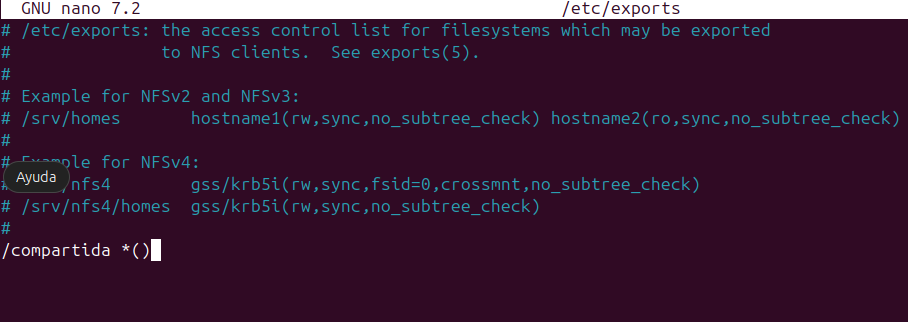
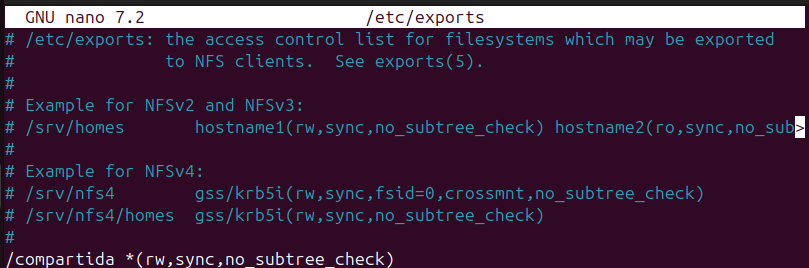
sprin3

diff --git a/site/sprint3/index.html b/site/sprint3/index.html
@@ -72,13 +72,21 @@
         <ul>
     <li class="toctree-l4"><a class="reference internal" href="#teoria">Teoria:</a>
     </li>
+    <li class="toctree-l4"><a class="reference internal" href="#installacio-i-configuracio">Instal·lació I Configuració</a>
+    </li>
         </ul>
     </li>
     <li class="toctree-l3"><a class="reference internal" href="#servidor-nfs">Servidor NFS</a>
         <ul>
-    <li class="toctree-l4"><a class="reference internal" href="#perfils-mobils">Perfils mòbils</a>
+    <li class="toctree-l4"><a class="reference internal" href="#installacio-i-configuracio_1">Instal·lació I Configuració</a>
     </li>
         </ul>
+    </li>
+        </ul>
+    </li>
+    <li class="toctree-l2"><a class="reference internal" href="#configuracio-de-etcexports">Configuració de /etc/exports</a>
+        <ul>
+    <li class="toctree-l3"><a class="reference internal" href="#perfils-mobils">Perfils mòbils</a>
     </li>
         </ul>
     </li>
@@ -193,40 +201,87 @@ Tot servidor té per a tindre la IP fitxa aniria bé configura netplan però par
 Permet la compartició de recursos que no són només carpetes, sinó també impressores.
 Samba pot treballar conjuntament amb LDAP per utilitzar autenticació a nivell d'usuaris.
 Samba permet la connexió de clients tant de Linux com de Windows.</p>
+<h4 id="installacio-i-configuracio">Instal·lació I Configuració</h4>
 <p><img alt="Error" src="../installsmb.png" /></p>
-<p><img alt="Error" src="../grepperfils.png" /></p>
-<p><img alt="Error" src="../configperfis.png" /></p>
-<p><img alt="Error" src="../creauser.png" /></p>
-<p><img alt="Error" src="../comptail.png" /></p>
-<p><img alt="Error" src="../addgrupdam.png" /></p>
-<p><img alt="Error" src="../smbcontra.png" /></p>
-<p>Client:</p>
-<p><img alt="Error" src="../installsmbclient.png" /></p>
-<p><img alt="Error" src="../consmb.png" /></p>
-<p>Raul crea</p>
+<p>Crearem la carpeta de perfils a l'arrel i li donarem els permisos corresponents
+<img alt="Error" src="../grepperfils.png" /></p>
+<p>Anirem al fitxe /etc/samba i configurarem la carpeta compartida
+<img alt="Error" src="../configperfis.png" /></p>
+<p>Crea els usuaris raul, enric i walid sense directori personal i sense accés a la línia d'ordres
+<img alt="Error" src="../creauser.png" /></p>
+<p>Verifica que els usuaris s'han creat correctament
+<img alt="Error" src="../comptail.png" /></p>
+<p>Crem el grup dam i afegim els usuaris raul, walid i enric
+<img alt="Error" src="../addgrupdam.png" /></p>
+<p>Posarem contrasenyes del samba a els usuaris raul, walid i enric
+<img alt="Error" src="../smbcontra.png" /></p>
+<p>Client:
+Una vegada al client instal·larem smbclient
+<img alt="Error" src="../installsmbclient.png" /></p>
+<p>Ens connectarem amb el mode anònim i els diferents usuaris
+<img alt="Error" src="../consmb.png" /></p>
+<p>Raul a pogut crea i edita fitches</p>
 <p><img alt="Error" src="../compraul.png" /></p>
-<p>Enric no crea</p>
-<p><img alt="pendent" src="./enricno.png" /></p>
+<p>Enric no ja que no tenia el permisos corresponents</p>
+<p><img alt="pendent" src="../enricno.png" /></p>
 <h3 id="servidor-nfs">Servidor NFS</h3>
-<p><img alt="Error" src="../instanfs.png" /></p>
+<h4 id="installacio-i-configuracio_1">Instal·lació I Configuració</h4>
+<p>Instal·larem el paquet nfs-kernel-server
+<img alt="Error" src="../instanfs.png" /></p>
+<h2 id="configuracio-de-etcexports">Configuració de /etc/exports</h2>
+<p>Afigirem una línia de configuració al fitxer <code>/etc/exports</code>:</p>
+<ul>
+<li><strong>/compartida</strong>: Directori compartit.  </li>
+<li><strong>*</strong>: Accés per a qualsevol client de xarxa.  </li>
+<li><strong>rw</strong>: Permet lectura i escriptura.  </li>
+<li><strong>sync</strong>: Sincronitza els canvis a disc immediatament.  </li>
+<li><strong>no_subtree_check</strong>: Millora el rendiment desactivant comprovacions de subdirectoris.  </li>
+</ul>
 <p><img alt="Error" src="../nanoexports.png" /></p>
-<p><img alt="Error" src="../restartnfs.png" /></p>
-<p>Client Windous</p>
-<p><img alt="Error" src="../clientwind.png" /></p>
+<p>Reiniciem el servei NFS per aplicar els canvis.
+<img alt="Error" src="../restartnfs.png" /></p>
+<p>Client Windous<br />
+El recurs \10.0.2.4\compartida funciona des del client Windows
+<img alt="Error" src="../clientwind.png" /></p>
 <p><img alt="Error" src="../clientwind2.png" /></p>
 <p>Client Ubuntu<br />
+Al client ubuntu necessitarem insta-la el paquet nfs-common i rpcbind
 <img alt="Error" src="../clientubu1.png" /></p>
 <p><img alt="Error" src="./clientubu2.png" /></p>
 <h4 id="perfils-mobils">Perfils mòbils</h4>
-<p><img alt="Error" src="../instalnfsserver.png" /></p>
+<p>Instal·larem el paquet nfs-kernel-server
+<img alt="Error" src="../instalnfsserver.png" /></p>
+<p>Afegirem la configuracio de perfils
+- <strong>rw</strong>: Accés de lectura i escriptura.<br />
+- <strong>sync</strong>: Escriu els canvis immediatament al disc.<br />
+- <strong>no_root_squash</strong>: Permet que el client NFS accedeixi com a root al servidor (<strong>compte amb la seguretat!</strong>).<br />
+- <strong>no_subtree_check</strong>: Millora el rendiment desactivant comprovacions de subdirectoris.  </p>
 <p><img alt="Error" src="../etcnanoexport.png" /></p>
-<p><img alt="Error" src="../grupldif.png" /></p>
-<p><img alt="Error" src="../usuldif.png" /></p>
-<p><img alt="Error" src="../aplicaldif.png" /></p>
-<p>Client:</p>
-<p><img alt="Error" src="../instalclinfs.png" /></p>
+<p>Configuracio del grup
+<img alt="Error" src="../grupldif.png" /></p>
+<p>Configuracio del usuari
+<img alt="Error" src="../usuldif.png" /></p>
+<p>Afegirem els fitxes usu i grup a LDAP:
+<img alt="Error" src="../aplicaldif.png" /></p>
+<p>Client:
+Al client instal·larem nfs-common i rpcbind
+<img alt="Error" src="../instalclinfs.png" /></p>
+<p>Muntarem un recurs el qual:<br />
+- <strong>10.0.2.4:/perfils</strong>: Indica el servidor NFS (IP) i el directori compartit.<br />
+- <strong>/perfils</strong>: Punt de muntatge local on es veurà el recurs compartit.<br />
+- <strong>nfs</strong>: Tipus de sistema de fitxers (NFS).<br />
+- <strong>auto</strong>: Es munta automàticament en arrencar el sistema.<br />
+- <strong>noatime</strong>: No actualitza la data d'accés als fitxers (millora el rendiment).<br />
+- <strong>nolock</strong>: Desactiva el bloqueig de fitxers NFS (útil per compatibilitat).<br />
+- <strong>bg</strong>: Si el muntatge falla, ho intenta en segon pla (no bloqueja l'arrencada).<br />
+- <strong>nfsvers=3</strong>: Utilitza la versió 3 de NFS.<br />
+- <strong>intr</strong>: Permet interrompre operacions NFS si el servidor no respon.<br />
+- <strong>tcp</strong>: Utilitza el protocol TCP per a la comunicació (més fiable que UDP).<br />
+- <strong>actimeo=1800</strong>: Cacheja els atributs de fitxers durant 1800 segons (30 minuts) per millorar el rendiment.<br />
+- <strong>0 0</strong>: No es fa còpia de seguretat amb dump i no es comprova el sistema de fitxers amb fsck.  </p>
 <p><img alt="Error" src="../etcfstabnano.png" /></p>
-<p><img alt="Error" src="../comprovacioalu54.png" /></p>
+<p>Comprovacio amb client ubuntu
+<img alt="Error" src="../comprovacioalu54.png" /></p>
               
             </div>
           </div><footer>

diff --git a/site/index.html b/site/index.html
@@ -138,5 +138,5 @@
 
 <!--
 MkDocs version : 1.6.1
-Build Date UTC : 2025-02-22 12:17:52.151571+00:00
+Build Date UTC : 2025-02-27 11:36:10.530413+00:00
 -->

diff --git a/docs/sprint3.md b/docs/sprint3.md
@@ -124,77 +124,118 @@ Permet la compartició de recursos que no són només carpetes, sinó també imp
 Samba pot treballar conjuntament amb LDAP per utilitzar autenticació a nivell d'usuaris.
 Samba permet la connexió de clients tant de Linux com de Windows.
 
-
+#### Instal·lació I Configuració 
 ![Error](./installsmb.png)
 
+Crearem la carpeta de perfils a l'arrel i li donarem els permisos corresponents
 ![Error](./grepperfils.png)
 
+Anirem al fitxe /etc/samba i configurarem la carpeta compartida
 ![Error](./configperfis.png)
 
+Crea els usuaris raul, enric i walid sense directori personal i sense accés a la línia d'ordres
 ![Error](./creauser.png)
 
+Verifica que els usuaris s'han creat correctament
 ![Error](./comptail.png)
 
+Crem el grup dam i afegim els usuaris raul, walid i enric
 ![Error](./addgrupdam.png)
 
+Posarem contrasenyes del samba a els usuaris raul, walid i enric
 ![Error](./smbcontra.png)
 
 Client:
-
+Una vegada al client instal·larem smbclient
 ![Error](./installsmbclient.png)
 
+Ens connectarem amb el mode anònim i els diferents usuaris
 ![Error](./consmb.png)
 
-Raul crea
+Raul a pogut crea i edita fitches
 
 ![Error](./compraul.png)
 
-Enric no crea
+Enric no ja que no tenia el permisos corresponents
 
 ![pendent](./enricno.png)
 
 ###Servidor NFS
+#### Instal·lació I Configuració 
 
-
+Instal·larem el paquet nfs-kernel-server
 ![Error](./instanfs.png)
+
+## Configuració de /etc/exports
+
+Afigirem una línia de configuració al fitxer `/etc/exports`:
+
+- **/compartida**: Directori compartit.  
+- **\***: Accés per a qualsevol client de xarxa.  
+- **rw**: Permet lectura i escriptura.  
+- **sync**: Sincronitza els canvis a disc immediatament.  
+- **no_subtree_check**: Millora el rendiment desactivant comprovacions de subdirectoris.  
 
 ![Error](./nanoexports.png)
 
+Reiniciem el servei NFS per aplicar els canvis.
 ![Error](./restartnfs.png)
 
-Client Windous
-
+Client Windous  
+El recurs \10.0.2.4\compartida funciona des del client Windows
 ![Error](./clientwind.png)
 
 ![Error](./clientwind2.png)
 
 Client Ubuntu  
+Al client ubuntu necessitarem insta-la el paquet nfs-common i rpcbind
 ![Error](./clientubu1.png)
 
 ![Error](./clientubu2.png)
 
 ####Perfils mòbils
-
+Instal·larem el paquet nfs-kernel-server
 ![Error](./instalnfsserver.png)
+
+
+Afegirem la configuracio de perfils
+- **rw**: Accés de lectura i escriptura.  
+- **sync**: Escriu els canvis immediatament al disc.  
+- **no_root_squash**: Permet que el client NFS accedeixi com a root al servidor (**compte amb la seguretat!**).  
+- **no_subtree_check**: Millora el rendiment desactivant comprovacions de subdirectoris.  
 
 ![Error](./etcnanoexport.png)
 
+Configuracio del grup
 ![Error](./grupldif.png)
 
-
-
-
-
+Configuracio del usuari
 ![Error](./usuldif.png)
 
+Afegirem els fitxes usu i grup a LDAP:
 ![Error](./aplicaldif.png)
 
 Client:
-
+Al client instal·larem nfs-common i rpcbind
 ![Error](./instalclinfs.png)
+
+Muntarem un recurs el qual:  
+- **10.0.2.4:/perfils**: Indica el servidor NFS (IP) i el directori compartit.  
+- **/perfils**: Punt de muntatge local on es veurà el recurs compartit.  
+- **nfs**: Tipus de sistema de fitxers (NFS).  
+- **auto**: Es munta automàticament en arrencar el sistema.  
+- **noatime**: No actualitza la data d'accés als fitxers (millora el rendiment).  
+- **nolock**: Desactiva el bloqueig de fitxers NFS (útil per compatibilitat).  
+- **bg**: Si el muntatge falla, ho intenta en segon pla (no bloqueja l'arrencada).  
+- **nfsvers=3**: Utilitza la versió 3 de NFS.  
+- **intr**: Permet interrompre operacions NFS si el servidor no respon.  
+- **tcp**: Utilitza el protocol TCP per a la comunicació (més fiable que UDP).  
+- **actimeo=1800**: Cacheja els atributs de fitxers durant 1800 segons (30 minuts) per millorar el rendiment.  
+- **0 0**: No es fa còpia de seguretat amb dump i no es comprova el sistema de fitxers amb fsck.  
 
 ![Error](./etcfstabnano.png)
 
+Comprovacio amb client ubuntu
 ![Error](./comprovacioalu54.png)
 
 
